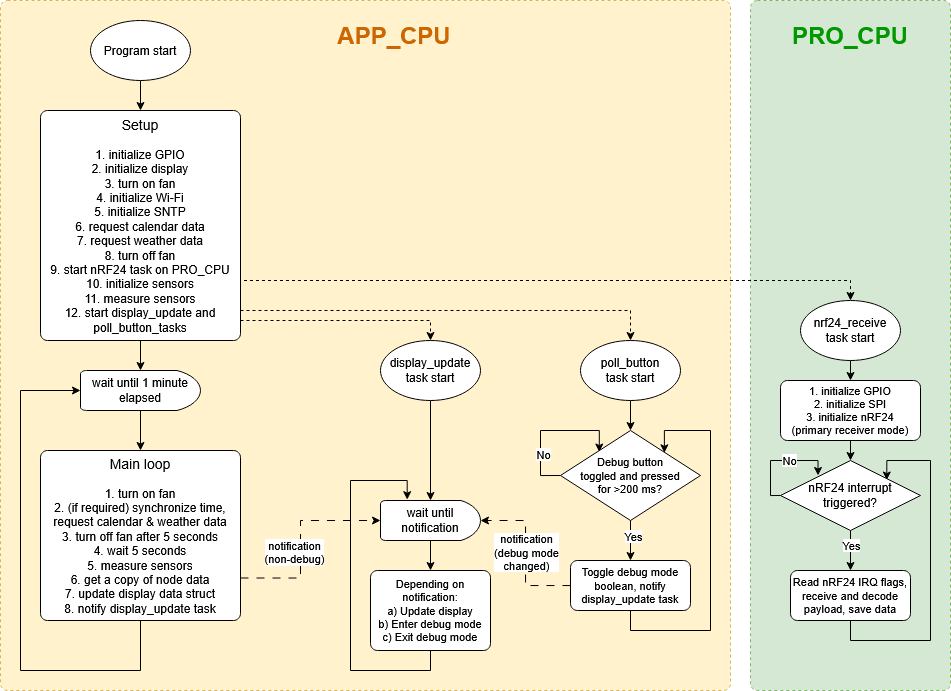
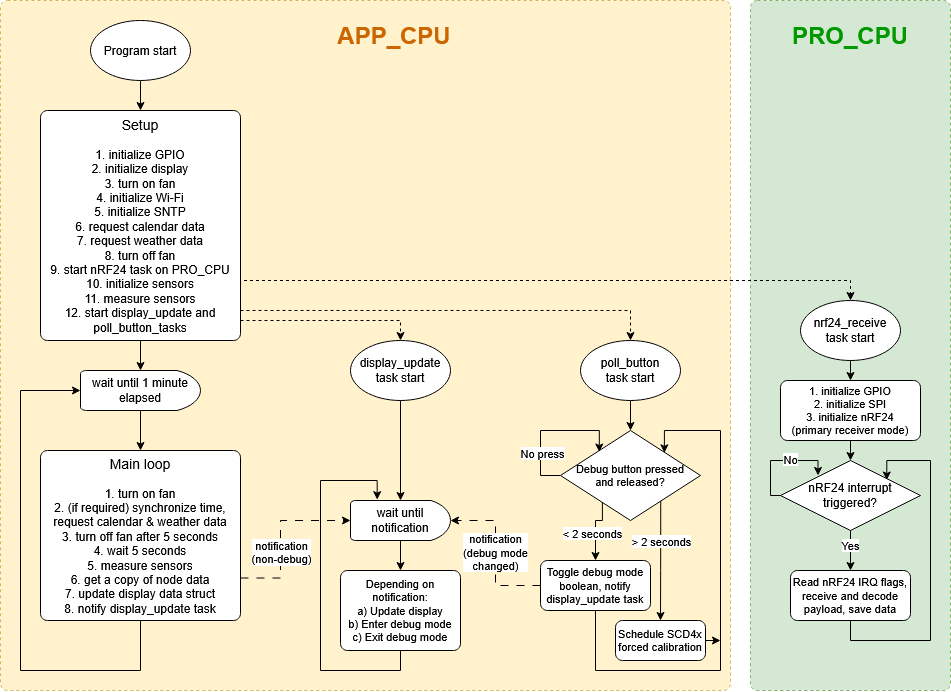
Update task list and documentation

diff --git a/TODO.md b/TODO.md
@@ -37,8 +37,8 @@ This is a task list for the HAMS project.
         - [x] final print (6x)
     - [x] Node PCB assembly
     - [x] Fix battery holder crimping
-    - [ ] Flash nodes
-    - [ ] Test nodes
+    - [x] Flash nodes
+    - [x] Test nodes
     - [ ] Cover exterior nodes in protective plastic coating
 
 - [ ] Create documentation
@@ -46,24 +46,17 @@ This is a task list for the HAMS project.
     - [x] Document hub software incl. FreeRTOS tasks and flowchart
     - [ ] Photos
         - [x] Assembled node
-        - [ ] Assembled hub
-        - [ ] Hub display
-        - [ ] Hub debug display
+        - [x] Assembled hub
+        - [x] Hub display
+        - [x] Hub debug display
         - [ ] New calibration setup with batteries
+        - [ ] Logic waveforms
     - [ ] Add HAMS node current measurements
-    - [ ] Add enclosure dimension to hardware docs
-  
-
-- [ ] Hub firmware
-    - [ ] Turn SPS30 off after measurements to limit fan noise
-    - [x] Remove T 24h min and PM size from the display
-    - [x] Remove "Sever" node, add "Detsky pokoj" node
+    - [x] Add enclosure dimension to hardware docs
+    - [x] Document hub debug button
+    - [ ] New calibration data
 
 ## To do
-  
-- [ ] Test SCD41 CO2 measurement in open air (expected cca 400 ppm)
-  
-- [ ] Hub firmware: SCD41 force ASC via long debug button press
 
 ## Backlog
 
@@ -73,7 +66,7 @@ This is a task list for the HAMS project.
 - [ ] Node firmware: Better error handling (nRF24 transmission of error codes even if FSM steps fail before nRF24 transmit step)
 - [ ] Node firmware: Change radio data rate to 250 kbps to increase range
 - [ ] Hub firmware: Software calibration of SHT4x measurements
-- [ ] Hub firmware: Add pressure correction to SCD41 measurements
+- [ ] Hub firmware: Turn SPS30 off after measurements to limit fan noise
 
 ## Done
 
@@ -155,3 +148,11 @@ This is a task list for the HAMS project.
     - [x] Assemble hub PCB
     - [x] Test hub PCB
     - [x] Assemble hub enclosure
+
+- [x] Test SCD41 CO2 measurement in open air (expected cca 400 ppm, got cca 1400 ppm - calibration is off... try to force ASC)
+
+- [x] Hub firmware    
+    - [x] Remove T 24h min from the display
+    - [x] Remove "Sever" node, add "Detsky pokoj" node
+    - [x] Add pressure correction to SCD41 measurements
+    - [x] SCD41 force FRC via long debug button press 

diff --git a/docs/hub_firmware.md b/docs/hub_firmware.md
@@ -1,4 +1,4 @@
-# HAMS hub firmware
+# HAMS hub
 
 HAMS hub firmware for ESP32-S3 module is written in C and C++ and uses FreeRTOS as provided by Espressif.
 
@@ -8,11 +8,13 @@ ESP32 is a chip with two CPU cores (the APP_CPU and the PRO_CPU). The PRO_CPU ru
 
 The nRF24 and SHT4x drivers are identical to the ones used in the STM32 based HAMS node, as all device drivers in this project are platform independent.
 
-## Debug mode
+## Debug button
 
-Pressing the debug button on the PCB will toggle the debug mode on and off. When debug mode is on, the display immediately changes to the debug view, which lists internal debug info.
+The debug button is located on the back of the HAMS hub enclosure, next to the reset button.
 
-TODO: add debug display photo here
+Pressing and releasing the button for more than 300 ms but less than 2 seconds will toggle the debug mode on and off. When debug mode is on, the display immediately changes to the [debug view](#debug-mode), which lists internal debug info.
+
+Pressing and releasing the button after more than 2 seconds will schedule a SCD41 re-calibration (FRC). In the next SCD41 measurement cycle, the SCD41 will be recalibrated, assuming the current CO2 concentration is 425 ppm.
 
 ## Program flow
 
@@ -21,3 +23,25 @@ The application code flow is visualized in a simplified flowchart below.
 Please note not all sensors take a reading every main loop cycle. For example SCD41 (CO₂ sensor) takes a reading once every 5 cycles / minutes.
 
 ![HAMS hub FW flowchart](images/HAMS_hub_FW_flowchart.png)
+
+## Hardware
+
+Case dimensions are: 175 mm (W) x 92.85 mm (L) x 118 mm (H). Printed by Prusa MK4S 3D-printer, using Prusament PLA Pristine White filament.
+
+### Front
+![HAMS hub front normal](images/HAMS_hub_front_normal.JPG)
+
+### Debug mode
+![HAMS hub front debug](images/HAMS_hub_front_debug.JPG)
+
+### Start-up logging
+![HAMS hub front startup](images/HAMS_hub_front_startup.JPG)
+
+### Side shot 1
+![HAMS hub side front](images/HAMS_hub_side_front.JPG)
+
+### Side shot 2
+![HAMS hub side back](images/HAMS_hub_side_back.JPG)
+
+### Internals
+![HAMS hub internals](images/HAMS_hub_box_internals.png)

diff --git a/docs/node_firmware.md b/docs/node_firmware.md
@@ -19,6 +19,42 @@ The application code structure is an event-driven Finite State Machine (FSM). Th
 
 ## Logic analyzer waveforms
 
-Typical period between sleep mode exit and entrance is less than 15 ms.
+Typical period between stop mode exit and entrance is less than 15 ms.
 
 ![HAMS node logic analyzer waveforms](images/HAMS_node_SPI_I2C.png)
+
+## Batteries and power consumption
+
+The nodes are powered via CR2032 batteries, with a nominal voltage of 3 Volt and nominal capacity of 210 mAh.
+
+Typical current draw in stop mode has been measured to be 1.8 to 2.5 uA.
+
+To calculate average power consumption, let us make the following conservative assumptions:
+- the MCU draws 5 mA when not in stop mode
+- the nRF24 module draws 15 mA when transmitting
+- transmitting takes up to 2 ms
+- total wake time is 15 ms
+
+Under the above assumptions, the average power consumption is 3.74 uA and the battery life is 6.4 years.
+
+## Hardware
+
+Case dimensions are: 81 mm (L) x 58 mm (W) x 30 mm (H). Printed by Prusa MK4S 3D-printer, using Prusament PLA Pristine White filament.
+
+### PCB front
+![HAMS node PCB front](images/HAMS_node_board_front.png)
+
+### PCB back
+![HAMS node PCB back](images/HAMS_node_board_back.jpg)
+
+### Disassembled
+![HAMS node disassembled](images/HAMS_node_disassembled.JPG)
+
+### Assembled box internals
+![HAMS node box internals](images/HAMS_node_box_internals.JPG)
+
+### Assembled box front
+![HAMS node box front](images/HAMS_node_box_front.JPG)
+
+### Assembled box bottom
+![HAMS node box bottom](images/HAMS_node_box_bottom.JPG)
